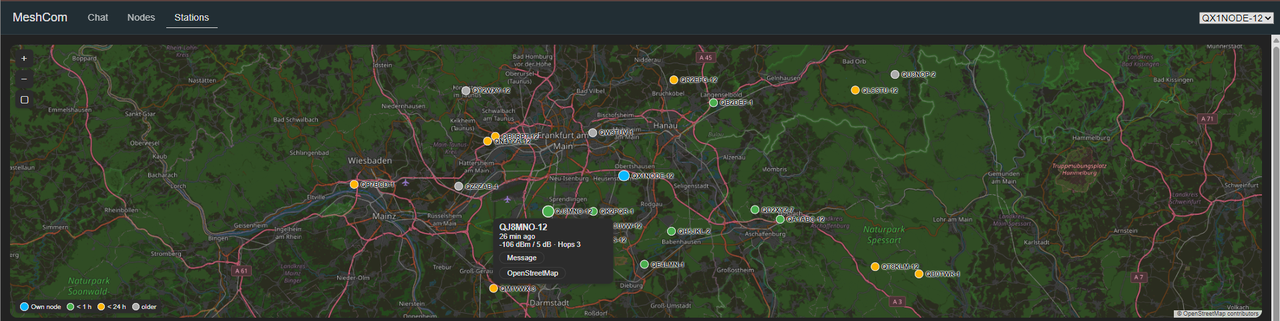
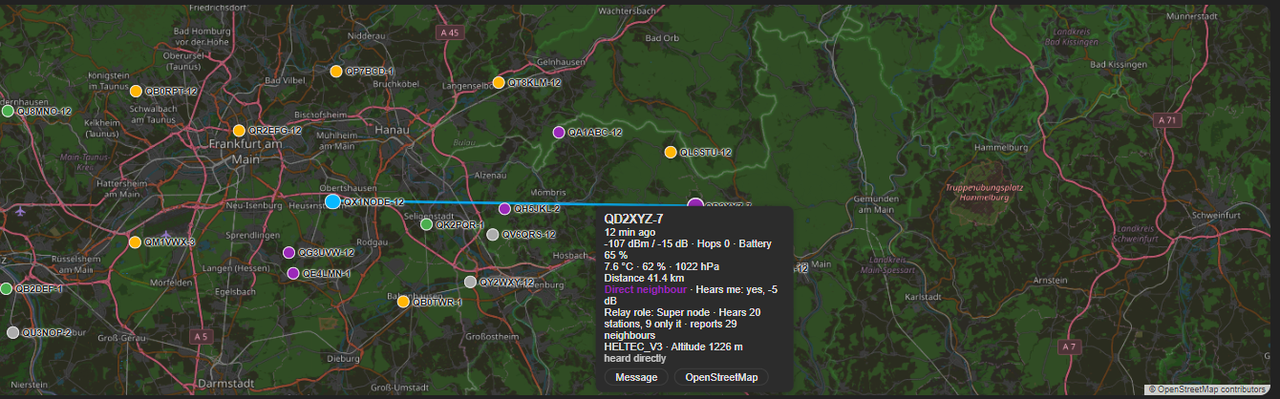
README: Stations screenshots with direct neighbours (#36)

diff --git a/README.md b/README.md
@@ -47,7 +47,7 @@ station.
 | ![Chat](docs/images/panel-chat.png) | ![Nodes](docs/images/panel-nodes.png) |
 | **Chat**: conversations for all, groups and direct messages; path and signal of every message, unread counters, "New messages" line | **Nodes**: one card per own node with its sensors and switches |
 | ![Stations](docs/images/panel-stations.png) | ![Station on the map](docs/images/panel-stations-popup.png) |
-| **Stations**: map of the own node and the heard stations (colour by last heard), sortable table below | **Map**: a click on a station shows its values and distance, with buttons for a direct message and OpenStreetMap |
+| **Stations**: map of the own node and the heard stations (violet: direct neighbour, otherwise colour by last heard), sortable table below with "hears me", relay role and hardware | **Map**: a click on a station shows its values, distance and neighbour values, with buttons for a direct message and OpenStreetMap |
 | ![Add a node](docs/images/ha-add-node.png) | ![Integration page](docs/images/ha-integration.png) |
 | **Setup**: choose external UDP or KISS over TCP | **Integration page**: one entry per node |
 | ![UDP setup](docs/images/ha-add-udp.png) | ![KISS setup](docs/images/ha-add-kiss.png) |
